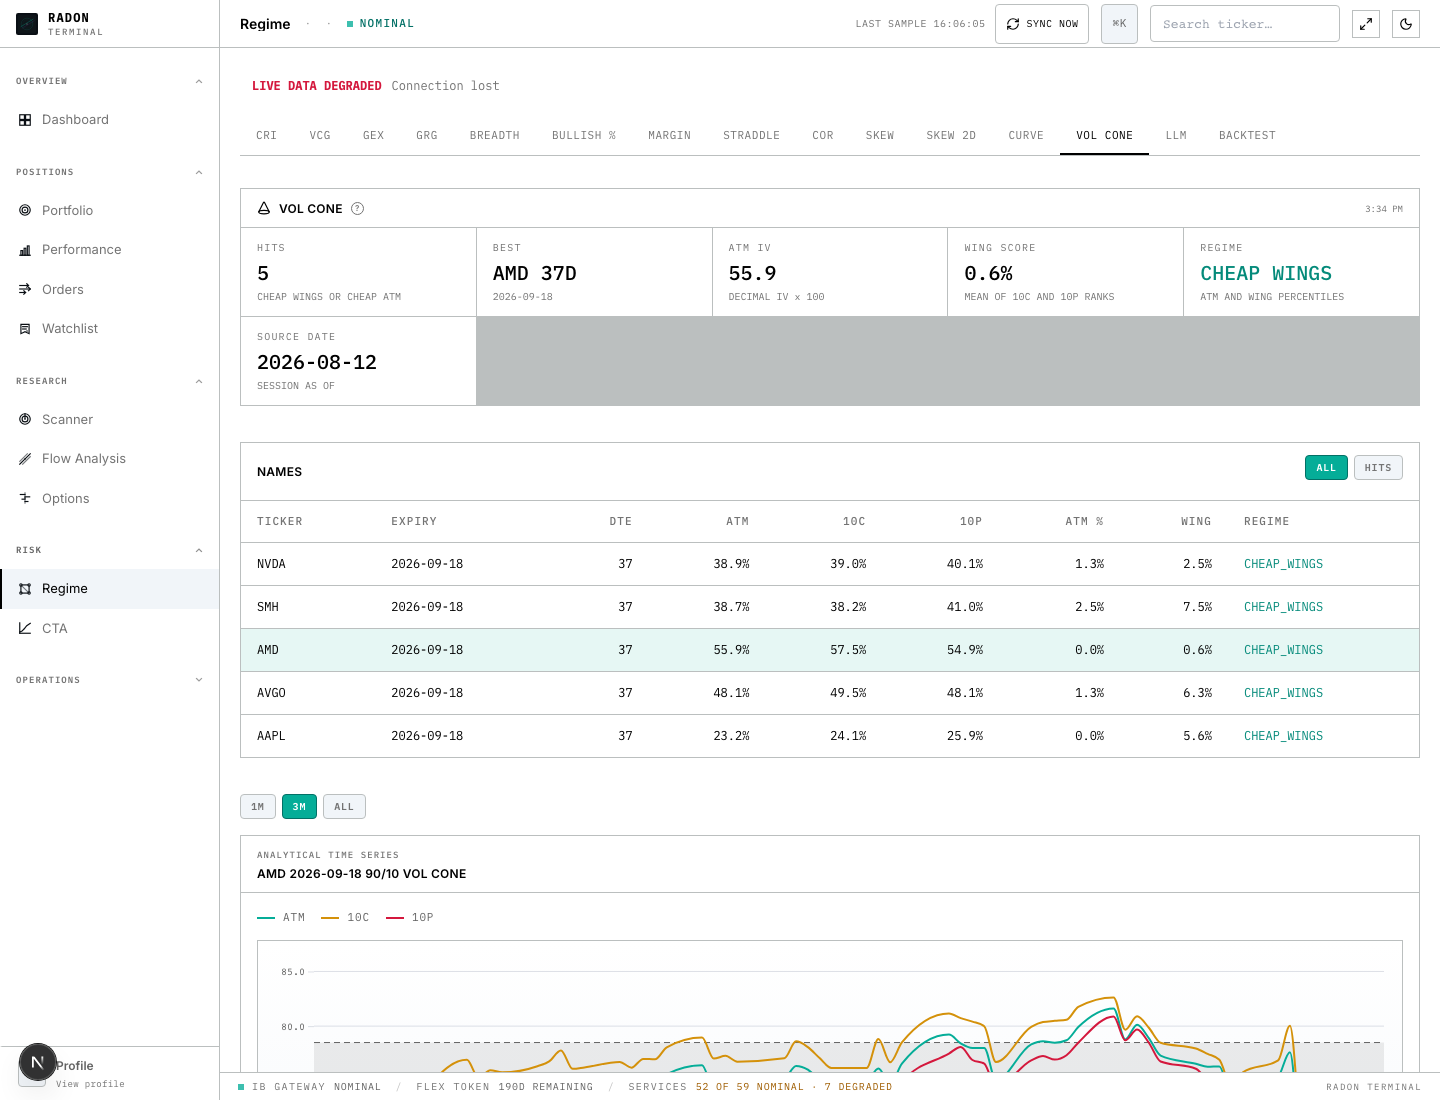
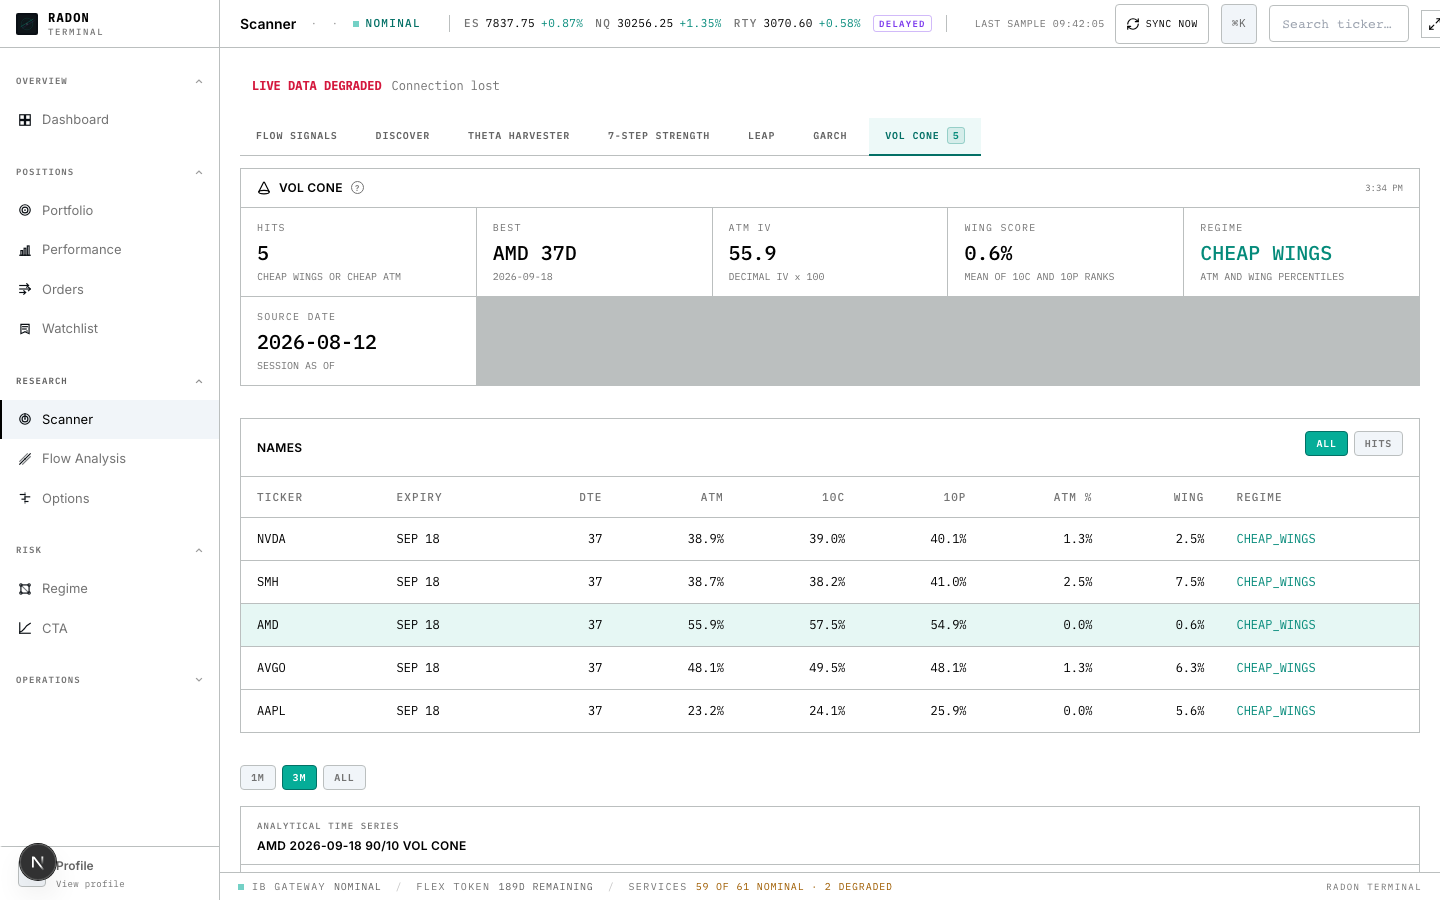
fix(vol-cone): put the cheap-wing scanner under Scanner
Name-ranking cheap-wing IV belongs with LEAP and GARCH, not Regime.
VOL CONE is now /scanner?mode=vol-cone; /regime/vol-cone redirects.

diff --git a/web/components/RegimePanel.tsx b/web/components/RegimePanel.tsx
@@ -20,7 +20,6 @@ import YieldCurvePanel from "./YieldCurvePanel";
 import EquiblesCotPanel from "./equibles-cot/EquiblesCotPanel";
 import AtsVenueSharePanel from "./equibles-ats-venue-share/AtsVenueSharePanel";
 import EquiblesShortCrowdingPanel from "./equibles/EquiblesShortCrowdingPanel";
-import VolConePanel from "./VolConePanel";
 import GammaRotationPanel from "./GammaRotationPanel";
 import LlmTokenIndexCard from "./LlmTokenIndexCard";
 import BacktestPanel from "./BacktestPanel";
@@ -38,20 +37,19 @@ import { SECTION_TOOLTIPS } from "@/lib/sectionTooltips";
 import { computeCri, type CriLevel, type CriResult } from "@/lib/criCalc";
 import { MarketState } from "@/lib/useMarketHours";
 
-type RegimeTab = "cri" | "vcg" | "gex" | "grg" | "breadth" | "bpi" | "margin" | "straddle" | "cor" | "skew" | "skew2d" | "curve" | "vol-cone" | "cot" | "ats" | "short" | "llm" | "backtest";
+type RegimeTab = "cri" | "vcg" | "gex" | "grg" | "breadth" | "bpi" | "margin" | "straddle" | "cor" | "skew" | "skew2d" | "curve" | "cot" | "ats" | "short" | "llm" | "backtest";
 
-const REGIME_TAB_VALUES: readonly RegimeTab[] = ["cri", "vcg", "gex", "grg", "breadth", "bpi", "margin", "straddle", "cor", "skew", "skew2d", "curve", "vol-cone", "cot", "ats", "short", "llm", "backtest"] as const;
+const REGIME_TAB_VALUES: readonly RegimeTab[] = ["cri", "vcg", "gex", "grg", "breadth", "bpi", "margin", "straddle", "cor", "skew", "skew2d", "curve", "cot", "ats", "short", "llm", "backtest"] as const;
 
 const MOBILE_TAB_LABEL: Partial<Record<RegimeTab, string>> = {
   skew2d: "SKEW 2D",
-  "vol-cone": "VOL CONE",
 };
 
 /** Extract the tab segment from /regime/<tab>; defaults to "cri". */
 function tabFromPathname(pathname: string | null): RegimeTab {
   if (!pathname) return "cri";
   // skew2d before skew so /regime/skew2d is not truncated to skew
-  const match = pathname.match(/^\/regime\/(cri|vcg|gex|grg|breadth|bpi|margin|straddle|cor|skew2d|skew|curve|vol-cone|cot|ats|short|llm|backtest)(?:\/|$)/);
+  const match = pathname.match(/^\/regime\/(cri|vcg|gex|grg|breadth|bpi|margin|straddle|cor|skew2d|skew|curve|cot|ats|short|llm|backtest)(?:\/|$)/);
   if (match && (REGIME_TAB_VALUES as readonly string[]).includes(match[1])) {
     return match[1] as RegimeTab;
   }
@@ -305,7 +303,7 @@ export default function RegimePanel({
 
   const tabBar = compact ? (
     <div className="m-regime-tabs" role="tablist" aria-label="Regime tabs">
-      {(["cri", "vcg", "gex", "grg", "breadth", "bpi", "margin", "straddle", "cor", "skew", "skew2d", "curve", "vol-cone", "cot", "ats", "short", "llm", "backtest"] as RegimeTab[]).map((t) => (
+      {(["cri", "vcg", "gex", "grg", "breadth", "bpi", "margin", "straddle", "cor", "skew", "skew2d", "curve", "cot", "ats", "short", "llm", "backtest"] as RegimeTab[]).map((t) => (
         <button
           key={t}
           type="button"
@@ -332,7 +330,6 @@ export default function RegimePanel({
       <button className={`ticker-tab ${activeTab === "skew" ? "active" : ""}`} onClick={() => goToTab("skew")}>SKEW</button>
       <button className={`ticker-tab ${activeTab === "skew2d" ? "active" : ""}`} onClick={() => goToTab("skew2d")}>SKEW 2D</button>
       <button className={`ticker-tab ${activeTab === "curve" ? "active" : ""}`} onClick={() => goToTab("curve")}>CURVE</button>
-      <button className={`ticker-tab ${activeTab === "vol-cone" ? "active" : ""}`} onClick={() => goToTab("vol-cone")}>VOL CONE</button>
       <button className={`ticker-tab ${activeTab === "cot" ? "active" : ""}`} onClick={() => goToTab("cot")}>COT</button>
       <button className={`ticker-tab ${activeTab === "ats" ? "active" : ""}`} onClick={() => goToTab("ats")}>ATS</button>
       <button className={`ticker-tab ${activeTab === "short" ? "active" : ""}`} onClick={() => goToTab("short")}>SHORT</button>
@@ -445,15 +442,6 @@ export default function RegimePanel({
       <div className="regime-panel">
         {tabBar}
         <YieldCurvePanel />
-      </div>
-    );
-  }
-
-  if (activeTab === "vol-cone") {
-    return (
-      <div className="regime-panel">
-        {tabBar}
-        <VolConePanel />
       </div>
     );
   }

diff --git a/web/components/WorkspaceSections.tsx b/web/components/WorkspaceSections.tsx
@@ -43,6 +43,7 @@ import { useThetaHarvester } from "@/lib/useThetaHarvester";
 import { useStrengthConfirmation } from "@/lib/useStrengthConfirmation";
 import { useLeap } from "@/lib/useLeap";
 import { useGarchConvergence } from "@/lib/useGarchConvergence";
+import { useVolCone } from "@/lib/useVolCone";
 import { useBlotter } from "@/lib/useBlotter";
 import { formatTradeDate } from "@/lib/blotter/formatTradeDate";
 import { isEarlierLocalDay } from "@/lib/holdTime";
@@ -130,6 +131,7 @@ import ThetaHarvesterScanner, { type ThetaScanParams } from "./ThetaHarvesterSca
 import StrengthConfirmationScanner from "./StrengthConfirmationScanner";
 import LeapScanner from "./LeapScanner";
 import GarchConvergenceScanner from "./GarchConvergenceScanner";
+import VolConePanel from "./VolConePanel";
 import FlowAnalysisTickerInput from "./flow-analysis/FlowAnalysisTickerInput";
 import { InformedFlowPanel } from "./flow-analysis/InformedFlowPanel";
 import { AlertsPanel } from "./alerts/AlertsPanel";
@@ -1422,7 +1424,7 @@ function PortfolioSections({ portfolio, prices }: { portfolio: PortfolioData | n
 /* ─── Scanner table ─────────────────────────────────────── */
 
 type ScannerSortKey = "ticker" | "signal" | "direction" | "score" | "strength" | "buy_ratio" | "sustained_days" | "num_prints";
-type ScannerMode = "flow" | "discover" | "theta" | "strength" | "leap" | "garch";
+type ScannerMode = "flow" | "discover" | "theta" | "strength" | "leap" | "garch" | "vol-cone";
 
 const SCANNER_HEADER_HELP = {
   signal: "Flow intensity bucket from dark-pool activity. STRONG means the flow score is high enough to review immediately.",
@@ -1486,7 +1488,9 @@ function ScannerSections({ defaultMode }: { defaultMode?: ScannerMode } = {}) {
         ? "leap"
         : queryModeParam === "garch"
           ? "garch"
-          : "flow";
+          : queryModeParam === "vol-cone"
+            ? "vol-cone"
+            : "flow";
   const queryMode = defaultMode ?? parsedQueryMode;
   const [mode, setModeState] = useState<ScannerMode>(queryMode);
   const { data, syncing, error, lastSync, syncNow } = useScanner(mode === "flow");
@@ -1494,6 +1498,7 @@ function ScannerSections({ defaultMode }: { defaultMode?: ScannerMode } = {}) {
   const strength = useStrengthConfirmation(mode === "strength");
   const leap = useLeap(mode === "leap");
   const garch = useGarchConvergence(mode === "garch");
+  const volCone = useVolCone(mode === "vol-cone");
   const [thetaScanning, setThetaScanning] = useState(false);
   const [thetaScanError, setThetaScanError] = useState<string | null>(null);
   const [strengthScanning, setStrengthScanning] = useState(false);
@@ -1635,6 +1640,7 @@ function ScannerSections({ defaultMode }: { defaultMode?: ScannerMode } = {}) {
         strength: strength.data ? strength.data.confirmed_strength_count ?? 0 : undefined,
         leap: leap.data ? (leap.data.results ?? []).filter((r) => r.is_mispriced).length : undefined,
         garch: garch.data ? (garch.data.pairs ?? []).filter((p) => p.gates_passed).length : undefined,
+        "vol-cone": volCone.data && !volCone.data.missing ? volCone.data.hit_count : undefined,
       }}
     />
   );
@@ -1722,6 +1728,15 @@ function ScannerSections({ defaultMode }: { defaultMode?: ScannerMode } = {}) {
           onScan={() => { void runGarchScan(); }}
           onTickerScan={(tickers) => { void runGarchScan(tickers); }}
         />
+      </div>
+    );
+  }
+
+  if (mode === "vol-cone") {
+    return (
+      <div className="scanner-page-shell">
+        {modeTabs}
+        <VolConePanel />
       </div>
     );
   }

diff --git a/web/e2e/vol-cone-tab.spec.ts b/web/e2e/vol-cone-tab.spec.ts
@@ -92,12 +92,12 @@ async function setupMocks(
   );
 }
 
-test.describe("/regime/vol-cone — cheap 10% OTM wing IV scanner", () => {
-  test("activates the VOL CONE tab and renders the summary strip", async ({ page }) => {
+test.describe("/scanner?mode=vol-cone — cheap 10% OTM wing IV scanner", () => {
+  test("activates the VOL CONE scanner tab and renders the summary strip", async ({ page }) => {
     await setupMocks(page);
-    await page.goto("/regime/vol-cone");
+    await page.goto("/scanner?mode=vol-cone");
 
-    await expect(page.locator(".ticker-tab", { hasText: "VOL CONE" })).toHaveClass(/active/);
+    await expect(page.getByRole("tab", { name: "VOL CONE" })).toHaveAttribute("aria-selected", "true");
 
     const regime = page.locator('[data-testid="vol-cone-regime-value"]');
     await regime.waitFor({ timeout: 10_000 });
@@ -108,9 +108,16 @@ test.describe("/regime/vol-cone — cheap 10% OTM wing IV scanner", () => {
     await expect(page.locator('[data-testid="vol-cone-strip-source"]')).toContainText("2026-08-12");
   });
 
-  test("renders the table, cone chart, and brush", async ({ page }) => {
+  test("legacy /regime/vol-cone redirects to the scanner tab", async ({ page }) => {
     await setupMocks(page);
     await page.goto("/regime/vol-cone");
+    await expect(page).toHaveURL(/\/scanner\?mode=vol-cone/);
+    await expect(page.getByRole("tab", { name: "VOL CONE" })).toHaveAttribute("aria-selected", "true");
+  });
+
+  test("renders the table, cone chart, and brush", async ({ page }) => {
+    await setupMocks(page);
+    await page.goto("/scanner?mode=vol-cone");
 
     const section = page.locator('[data-testid="vol-cone-chart-section"]');
     await section.waitFor({ timeout: 10_000 });
@@ -139,7 +146,7 @@ test.describe("/regime/vol-cone — cheap 10% OTM wing IV scanner", () => {
       names: [],
       hits: [],
     });
-    await page.goto("/regime/vol-cone");
+    await page.goto("/scanner?mode=vol-cone");
 
     await expect(page.getByText("No vol cone data yet")).toBeVisible({ timeout: 10_000 });
   });

diff --git a/web/tests/regime-tab-routes.test.tsx b/web/tests/regime-tab-routes.test.tsx
@@ -43,6 +43,19 @@ describe("app/regime/page.tsx — bare /regime redirects to /regime/cri", () => 
   });
 });
 
+describe("app/regime/vol-cone/page.tsx — cheap-wing scanner lives under Scanner", () => {
+  const src = read("app/regime/vol-cone/page.tsx");
+
+  it("imports redirect from next/navigation", () => {
+    expect(src).toMatch(/from\s+["']next\/navigation["']/);
+    expect(src).toMatch(/redirect/);
+  });
+
+  it("redirects to /scanner?mode=vol-cone", () => {
+    expect(src).toMatch(/redirect\(["']\/scanner\?mode=vol-cone["']\)/);
+  });
+});
+
 /* ─── 3. Subroute pages render WorkspaceShell ──────────── */
 
 describe.each([
@@ -58,7 +71,6 @@ describe.each([
   ["skew", "app/regime/skew/page.tsx"],
   ["skew2d", "app/regime/skew2d/page.tsx"],
   ["curve", "app/regime/curve/page.tsx"],
-  ["vol-cone", "app/regime/vol-cone/page.tsx"],
   ["cot", "app/regime/cot/page.tsx"],
   ["ats", "app/regime/ats/page.tsx"],
   ["short", "app/regime/short/page.tsx"],
@@ -119,9 +131,6 @@ vi.mock("../components/Skew2dPanel", () => ({
 }));
 vi.mock("../components/YieldCurvePanel", () => ({
   default: () => <div data-testid="curve-panel-stub" />,
-}));
-vi.mock("../components/VolConePanel", () => ({
-  default: () => <div data-testid="vol-cone-panel-stub" />,
 }));
 vi.mock("../components/equibles-cot/EquiblesCotPanel", () => ({
   default: () => <div data-testid="cot-panel-stub" />,
@@ -320,6 +329,12 @@ describe("RegimePanel — tab is URL-driven", () => {
     const { container } = render(<RegimePanel prices={{}} />);
     within(container).getByRole("button", { name: /^CURVE$/ }).click();
     expect(pushSpy).toHaveBeenCalledWith("/regime/curve");
+  });
+
+  it("does not expose a VOL CONE regime tab", () => {
+    mockedPathname = "/regime/cri";
+    const { container } = render(<RegimePanel prices={{}} />);
+    expect(within(container).queryByRole("button", { name: /^VOL CONE$/ })).toBeNull();
   });
 
   it("renders the COT panel when pathname is /regime/cot", () => {

diff --git a/web/tests/scanner-mode-tabs.test.tsx b/web/tests/scanner-mode-tabs.test.tsx
@@ -10,12 +10,13 @@ import { SigMeter } from "../components/SigMeter";
 afterEach(cleanup);
 
 describe("ScannerModeTabs", () => {
-  it("renders all six modes with the existing classes and roles", () => {
+  it("renders all seven modes with the existing classes and roles", () => {
     render(<ScannerModeTabs mode="flow" onModeChange={() => {}} counts={{}} />);
     const tabs = screen.getAllByRole("tab");
-    expect(tabs).toHaveLength(6);
+    expect(tabs).toHaveLength(7);
     expect(tabs[0].className).toContain("scanner-mode-tab--active");
     expect(tabs[1].className).toBe("scanner-mode-tab");
+    expect(screen.getByRole("tab", { name: "VOL CONE" })).toBeTruthy();
     expect(screen.getByRole("tablist").getAttribute("aria-label")).toBe("Scanner mode");
   });
 
@@ -24,6 +25,8 @@ describe("ScannerModeTabs", () => {
     render(<ScannerModeTabs mode="flow" onModeChange={onModeChange} counts={{}} />);
     fireEvent.click(screen.getByRole("tab", { name: /GARCH/i }));
     expect(onModeChange).toHaveBeenCalledWith("garch");
+    fireEvent.click(screen.getByRole("tab", { name: /VOL CONE/i }));
+    expect(onModeChange).toHaveBeenCalledWith("vol-cone");
   });
 
   it("shows a hot count chip when a tab has results", () => {

diff --git a/web/components/ScannerModeTabs.tsx b/web/components/ScannerModeTabs.tsx
@@ -2,7 +2,7 @@
 
 import { useEffect, useRef } from "react";
 
-export type ScannerMode = "flow" | "discover" | "theta" | "strength" | "leap" | "garch";
+export type ScannerMode = "flow" | "discover" | "theta" | "strength" | "leap" | "garch" | "vol-cone";
 
 type ScannerTabCounts = Partial<Record<ScannerMode, number>>;
 
@@ -23,10 +23,11 @@ const TABS: { mode: ScannerMode; label: string }[] = [
   { mode: "strength", label: "7-Step Strength" },
   { mode: "leap", label: "LEAP" },
   { mode: "garch", label: "GARCH" },
+  { mode: "vol-cone", label: "VOL CONE" },
 ];
 
 /**
- * The scanner's six-mode tab strip. Each tab carries a small count chip when
+ * The scanner mode tab strip. Each tab carries a small count chip when
  * its scan has a known result count, so signal presence reads across modes
  * without clicking through them.
  */

diff --git a/web/e2e/scanner-leap-garch-tabs.spec.ts b/web/e2e/scanner-leap-garch-tabs.spec.ts
@@ -55,11 +55,12 @@ test.beforeEach(async ({ page }) => {
   );
 });
 
-test("scanner page mode tabs include LEAP and GARCH", async ({ page }) => {
+test("scanner page mode tabs include LEAP, GARCH, and VOL CONE", async ({ page }) => {
   await page.goto("/scanner?mode=leap");
   const tabs = page.getByRole("tablist", { name: "Scanner mode" });
   await expect(tabs.getByRole("tab", { name: "LEAP" })).toBeVisible();
   await expect(tabs.getByRole("tab", { name: "GARCH" })).toBeVisible();
+  await expect(tabs.getByRole("tab", { name: "VOL CONE" })).toBeVisible();
 });
 
 test("mode=leap renders the LEAP panel with candidates", async ({ page }) => {

diff --git a/web/lib/useVolCone.ts b/web/lib/useVolCone.ts
@@ -15,6 +15,6 @@ const VOL_CONE_SYNC_CONFIG = {
   extractTimestamp: (d: VolConeData) => d.scan_time || null,
 };
 
-export function useVolCone(): UseSyncReturn<VolConeData> {
-  return useSyncHook<VolConeData>(VOL_CONE_SYNC_CONFIG, true);
+export function useVolCone(active = true): UseSyncReturn<VolConeData> {
+  return useSyncHook<VolConeData>({ ...VOL_CONE_SYNC_CONFIG, loadWhenInactive: false }, active);
 }

diff --git a/web/tests/vol-cone-api.test.ts b/web/tests/vol-cone-api.test.ts
@@ -1,7 +1,7 @@
 /**
  * @vitest-environment node
  *
- * /api/vol-cone — cheap 10% OTM wing IV scanner route (regime tab).
+ * /api/vol-cone — cheap 10% OTM wing IV scanner route (scanner tab).
  *
  * GET-only: radon-vol-cone.timer runs fetch_vol_cone.py. Reads through
  * dbFirstRead (scan_snapshots service='vol-cone', disk data/vol_cone.json)

diff --git a/web/lib/volCone.ts b/web/lib/volCone.ts
@@ -1,5 +1,5 @@
 /**
- * VOL CONE indicator — payload types + pure helpers for the vol-cone regime tab.
+ * VOL CONE indicator — payload types + pure helpers for the vol-cone scanner tab.
  * Mirrors the GET /api/vol-cone contract: expiry-local ATM and 10% OTM wing
  * IVs versus that expiry's 90/10 cone. Spec: docs/indicators/vol-cone.md.
  */

diff --git a/web/tests/vol-cone-panel.test.tsx b/web/tests/vol-cone-panel.test.tsx
@@ -1,7 +1,7 @@
 /**
  * @vitest-environment jsdom
  *
- * VOL CONE regime tab — cheap 10% OTM wing IV scanner.
+ * VOL CONE scanner tab — cheap 10% OTM wing IV scanner.
  *
  * Pure helpers (lib/volCone.ts): IV/percentile formatting, hit + regime
  * tones, chart-row mapping. VolConePanel: loader / empty / strip / table /

diff --git a/web/app/regime/vol-cone/page.tsx b/web/app/regime/vol-cone/page.tsx
@@ -1,5 +1,5 @@
-import WorkspaceShell from "@/components/WorkspaceShell";
+import { redirect } from "next/navigation";
 
 export default function RegimeVolConePage() {
-  return <WorkspaceShell section="regime" />;
+  redirect("/scanner?mode=vol-cone");
 }
